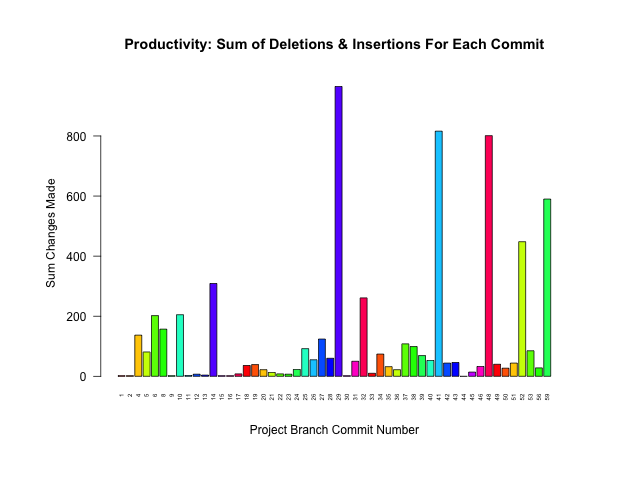
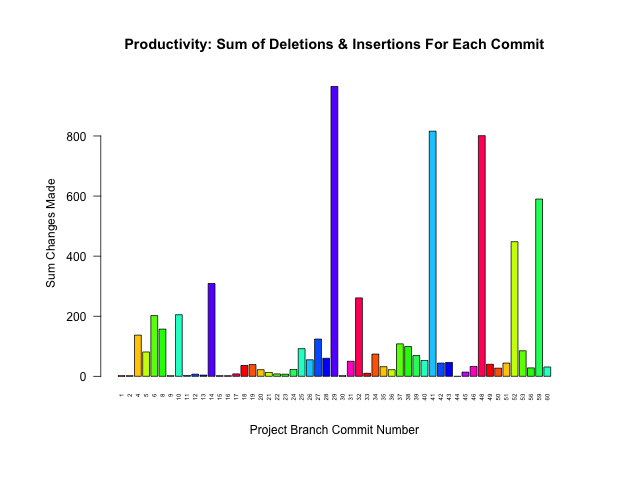
COMMIT #124

Changed region(s): [[0.25, 0.1562, 0.875, 0.8438], [0.2188, 0.5938, 0.3438, 0.7812]]

diff --git a/README.md b/README.md
@@ -18,8 +18,8 @@ ProjectName::BranchName.data
 
 Project Name | Last Updated | # Commits | # Branches | Merged Branches
 :---|:---|:---|:---|:---
-FASTQ_examiner                   |  2023-04-18  |  59   |  2  |  2  100%
-commit_tracker                   |  2023-04-17  |  122  |  1  |  1  	      (100%)
+FASTQ_examiner                   |  2023-04-19  |  60   |  2  |  2  100%
+commit_tracker                   |  2023-04-18  |  123  |  1  |  1  	      (100%)
 minishell                        |  2023-02-03  |  67   |  8  |  6  	      (75%)
 ft_printf                        |  2023-01-27  |  36   |  2  |  2  	      (100%)
 test_non-fastforward_merge-push  |  2023-01-27  |  15   |  2  |  1  	      (50%)
